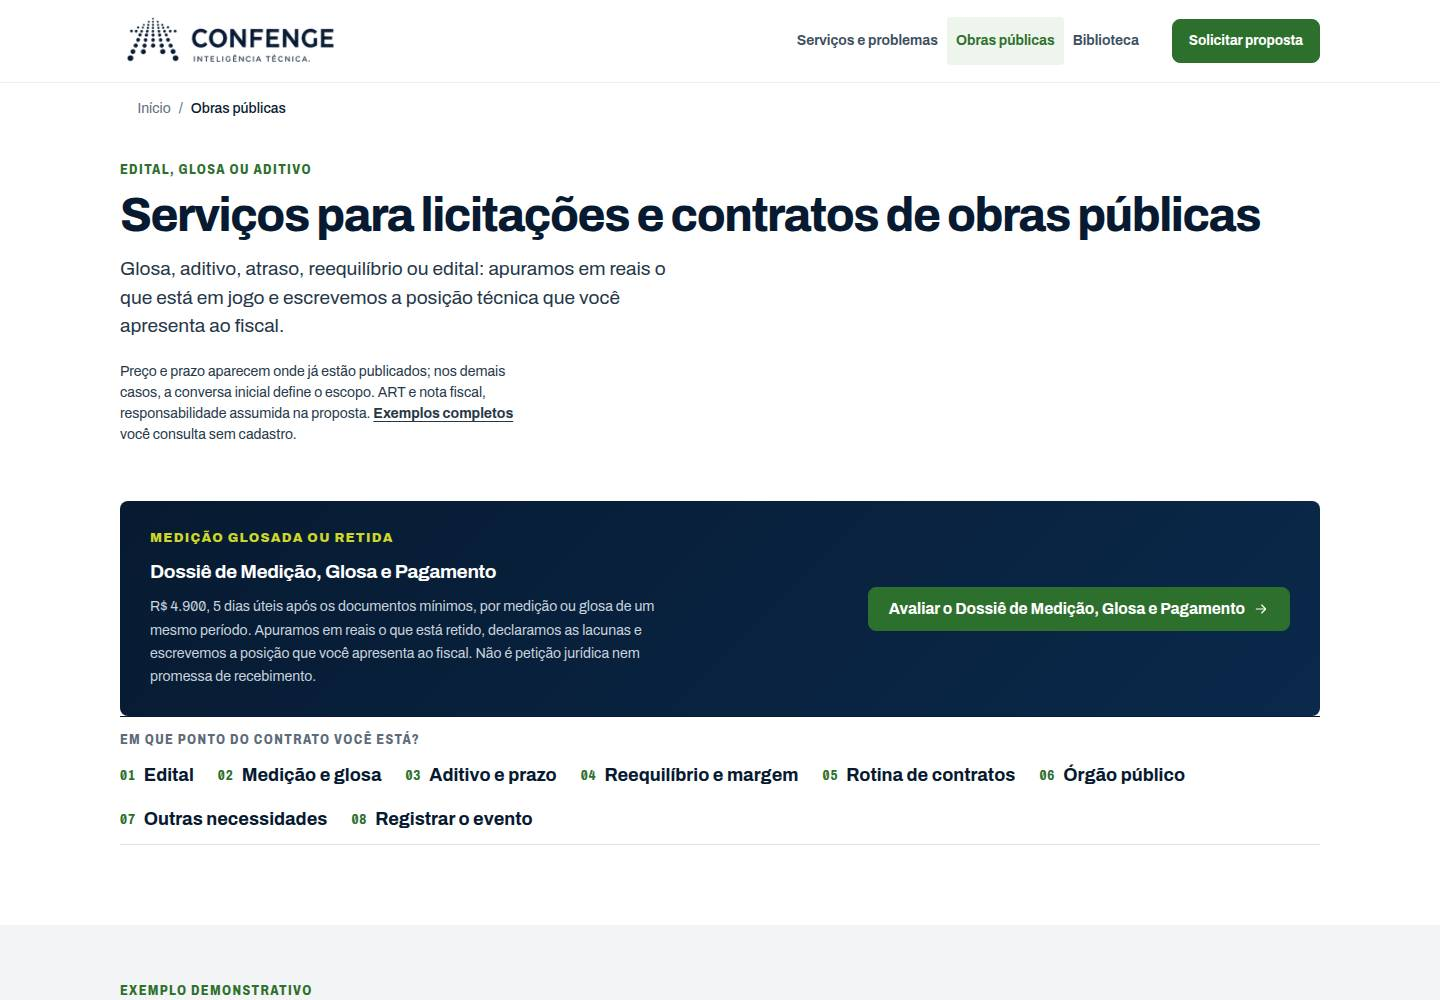
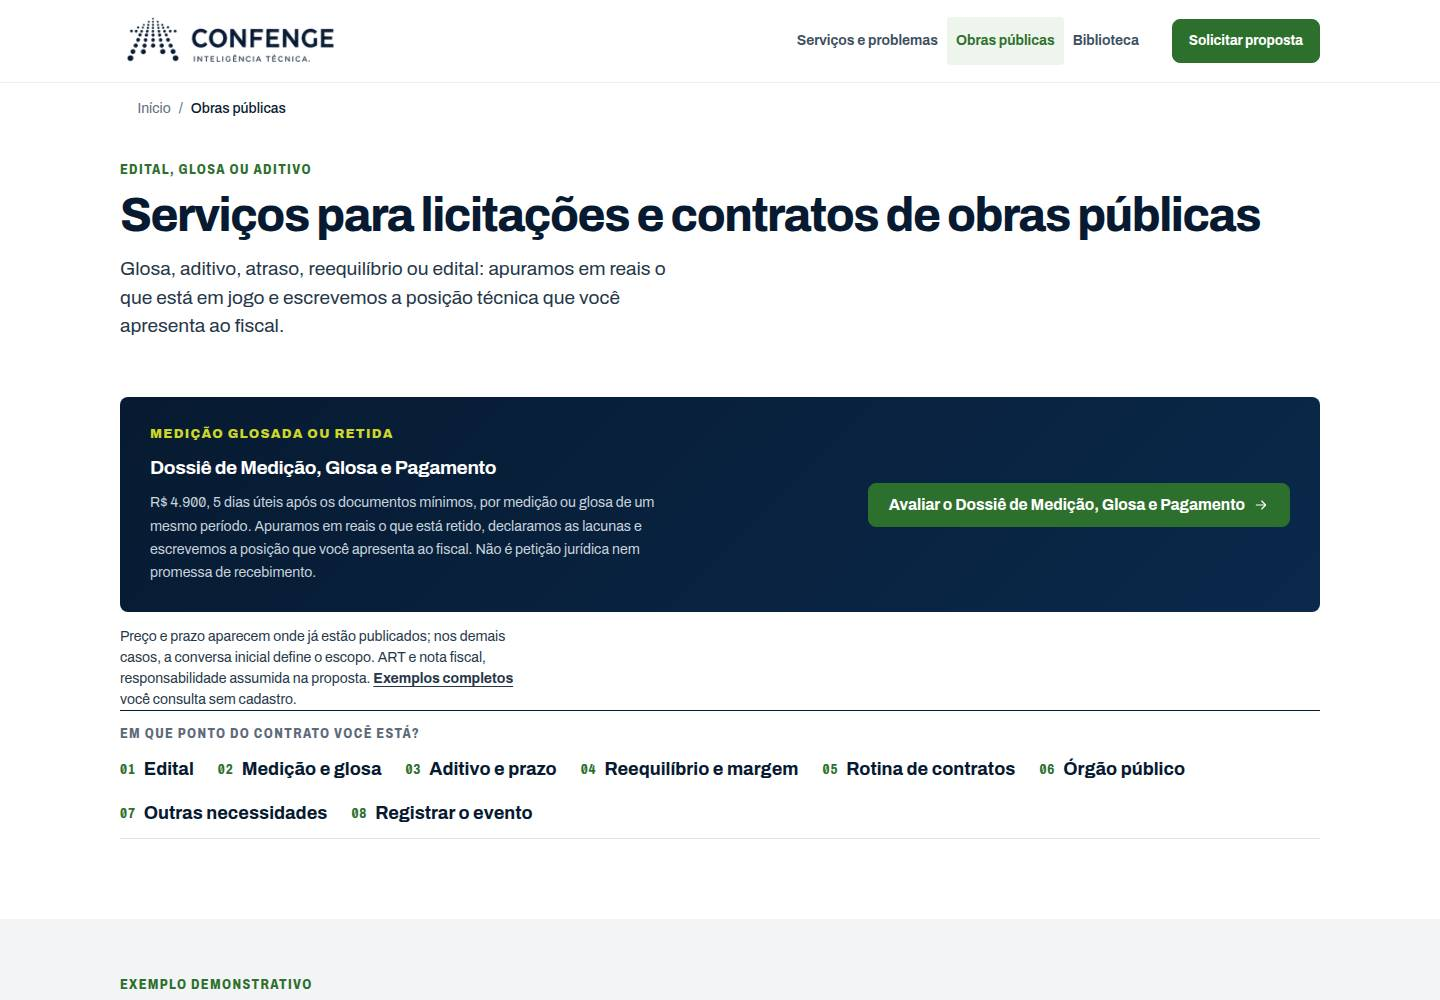
fix(design): hubs de obras publicas e de problemas com a linha de prova depois do cartao da rota dominante, para o botao caber inteiro na dobra de 390 px; evidencia recapturada e relatorio atualizado

Changed region(s): [[0.0625, 0.341, 0.9375, 0.837], [0.0625, 0.961, 0.2188, 1.0]]

diff --git a/servicos-obras-publicas/index.html b/servicos-obras-publicas/index.html
@@ -63,7 +63,6 @@
 <p class="eyebrow t-kicker">Edital, glosa ou aditivo</p>
 <h1 class="t-service" id="hub-title">Serviços para licitações e contratos de obras públicas</h1>
 <p class="section-lead svc-open__lead">Glosa, aditivo, atraso, reequilíbrio ou edital: apuramos em reais o que está em jogo e escrevemos a posição técnica que você apresenta ao fiscal.</p>
-<p class="section-proof t-caption">Preço e prazo aparecem onde já estão publicados; nos demais casos, a conversa inicial define o escopo. ART e nota fiscal, responsabilidade assumida na proposta. <a href="/casos/">Exemplos completos</a> você consulta sem cadastro.</p>
 </div>
 <section class="lead-inline" data-commercial-route="medicoes-glosas" aria-label="Rota para medição, glosa e pagamento">
 <div class="lead-inline-copy"><span>Medição glosada ou retida</span>
@@ -73,6 +72,7 @@
 <a class="button button-primary" data-asset-family="hub" data-asset-id="servicos-obras-publicas" data-cta-id="hub-servicos-medicoes-glosas" data-cta-position="hub_services" data-journey="contrato" data-route-family="medicoes-glosas" href="/medicoes-glosas-obras-publicas/">Avaliar o Dossiê de Medição, Glosa e Pagamento <svg class="icon"><use href="#i-arrow"></use></svg></a>
 </div>
 </section>
+<p class="section-proof t-caption">Preço e prazo aparecem onde já estão publicados; nos demais casos, a conversa inicial define o escopo. ART e nota fiscal, responsabilidade assumida na proposta. <a href="/casos/">Exemplos completos</a> você consulta sem cadastro.</p>
 <nav class="page-index" aria-label="Eventos desta página">
 <span class="page-index__label">Em que ponto do contrato você está?</span>
 <ol>

diff --git a/problemas-que-resolvemos/index.html b/problemas-que-resolvemos/index.html
@@ -62,7 +62,6 @@
 <p class="eyebrow t-kicker">Reconheça o seu evento</p>
 <h1 class="t-service" id="hub-title">Problemas que resolvemos em licitações e contratos de obras</h1>
 <p class="section-lead svc-open__lead">Glosa, aditivo, atraso, reequilíbrio, notificação ou edital: cada evento leva à página que diz o que assumimos, o que você recebe e para que serve.</p>
-<p class="section-proof t-caption"><a href="/ferramentas/">Quatro ferramentas públicas</a> calculam limite de aditivo, atraso, reequilíbrio e risco de margem sem cadastro.</p>
 </div>
 <section class="lead-inline" data-commercial-route="defesa-margem" aria-label="Rota para contrato em execução">
 <div class="lead-inline-copy"><span>Mais de um evento aberto</span>
@@ -72,6 +71,7 @@
 <a class="button button-primary" data-asset-family="hub" data-asset-id="problemas-que-resolvemos" data-cta-id="hub-problemas-defesa-margem" data-cta-position="hub_problems" data-journey="contrato" data-route-family="problemas-que-resolvemos" href="/defesa-margem-contratos-publicos/">Ver o Diagnóstico de Riscos à Margem <svg class="icon"><use href="#i-arrow"></use></svg></a>
 </div>
 </section>
+<p class="section-proof t-caption"><a href="/ferramentas/">Quatro ferramentas públicas</a> calculam limite de aditivo, atraso, reequilíbrio e risco de margem sem cadastro.</p>
 <nav class="page-index" aria-label="Onde você está no ciclo do contrato?">
 <span class="page-index__label">Onde você está no ciclo do contrato?</span>
 <ol>

diff --git a/scripts/site/render_nav_hubs.py b/scripts/site/render_nav_hubs.py
@@ -570,7 +570,6 @@ def _services_body(brand: dict[str, Any]) -> tuple[str, list[dict[str, str]]]:
 <p class="eyebrow t-kicker">{e(meta["eyebrow"])}</p>
 <h1 class="t-service" id="hub-title">{e(meta["h1"])}</h1>
 <p class="section-lead svc-open__lead">{e(meta["lead"])}</p>
-<p class="section-proof t-caption">{_proof_html(meta)}</p>
 </div>
 <section class="lead-inline" data-commercial-route="medicoes-glosas" aria-label="Rota para medição, glosa e pagamento">
 <div class="lead-inline-copy"><span>Medição glosada ou retida</span>
@@ -580,6 +579,7 @@ def _services_body(brand: dict[str, Any]) -> tuple[str, list[dict[str, str]]]:
 <a class="button button-primary" data-asset-family="hub" data-asset-id="servicos-obras-publicas" data-cta-id="hub-servicos-medicoes-glosas" data-cta-position="hub_services" data-journey="contrato" data-route-family="medicoes-glosas" href="/medicoes-glosas-obras-publicas/">Avaliar o Dossiê de Medição, Glosa e Pagamento <svg class="icon"><use href="#i-arrow"></use></svg></a>
 </div>
 </section>
+<p class="section-proof t-caption">{_proof_html(meta)}</p>
 <nav class="page-index" aria-label="Eventos desta página">
 <span class="page-index__label">Em que ponto do contrato você está?</span>
 <ol>
@@ -685,7 +685,6 @@ def _problems_body(brand: dict[str, Any]) -> tuple[str, list[dict[str, str]]]:
 <p class="eyebrow t-kicker">{e(meta["eyebrow"])}</p>
 <h1 class="t-service" id="hub-title">{e(meta["h1"])}</h1>
 <p class="section-lead svc-open__lead">{e(meta["lead"])}</p>
-<p class="section-proof t-caption">{_proof_html(meta)}</p>
 </div>
 <section class="lead-inline" data-commercial-route="defesa-margem" aria-label="Rota para contrato em execução">
 <div class="lead-inline-copy"><span>Mais de um evento aberto</span>
@@ -695,6 +694,7 @@ def _problems_body(brand: dict[str, Any]) -> tuple[str, list[dict[str, str]]]:
 <a class="button button-primary" data-asset-family="hub" data-asset-id="problemas-que-resolvemos" data-cta-id="hub-problemas-defesa-margem" data-cta-position="hub_problems" data-journey="contrato" data-route-family="problemas-que-resolvemos" href="/defesa-margem-contratos-publicos/">Ver o Diagnóstico de Riscos à Margem <svg class="icon"><use href="#i-arrow"></use></svg></a>
 </div>
 </section>
+<p class="section-proof t-caption">{_proof_html(meta)}</p>
 <nav class="page-index" aria-label="Onde você está no ciclo do contrato?">
 <span class="page-index__label">Onde você está no ciclo do contrato?</span>
 <ol>

diff --git a/docs/campaigns/design-institucional/expansao/relatorio-lote-b.md b/docs/campaigns/design-institucional/expansao/relatorio-lote-b.md
@@ -74,7 +74,8 @@ Os dois hubs são gerados por `scripts/site/render_nav_hubs.py` ("never hand-edi
 reprova qualquer edição manual, verificado com uma linha). A composição do piloto foi portada para
 o gerador: `svc-open` em uma coluna com a rota dominante original (`lead-inline` com o mesmo
 botão `data-cta-id="hub-servicos-medicoes-glosas"` / `hub-problemas-defesa-margem`, exigidos por
-`single-commercial-route.v1.json` e `test_inbound_gates`), `page-index`, prancha de abertura
+`single-commercial-route.v1.json` e `test_inbound_gates`; a linha de prova `section-proof` vem logo
+depois do cartão, para o botão caber na dobra de 390), `page-index`, prancha de abertura
 (P3 no hub de serviços, P5 no de problemas), `ol.list-ruled.list-ruled--areas` por evento
 contratual (grupo = situação + trabalho; linha = título/preço publicado/caminho), `ol.hub-list` para
 "Outras necessidades", `fit-economico` mantido (`data-offer-fit`), próximo passo único
@@ -194,11 +195,12 @@ o JSON-LD e o `<head>` foram conferidos byte a byte contra `47da03b64`. `test:fi
   (dois próximos passos), fora do contrato "um bloco escuro / uma ação dominante".
 - Hub de obras públicas: o aside de regras do bloco gerado `CONTRACT-DEFENSE-HUB` é um segundo
   momento escuro (pedido 3).
-- Hub de obras públicas em 390: o botão da rota dominante (`lead-inline`) entra na dobra só
-  parcialmente (topo a ~795 px de 844); a distância vem de `.lead-inline{margin-top:56px}` em
-  `styles.css` (a regra `body[data-content-cluster="servicos"] main>.section:first-of-type .lead-inline{margin-top:16px}`
-  de `css/contracts.css` deixou de casar porque a abertura é `.svc-open`). Pedido pequeno de CSS ao
-  integrador: estender o seletor a `.svc-open .lead-inline`.
+- Hubs em 390: na primeira captura o botão da rota dominante de `/servicos-obras-publicas/`
+  entrava na dobra só parcialmente (topo a ~795 px de 844). Corrigido no gerador: a linha de prova
+  (`section-proof`) passou para depois do cartão da rota dominante nos dois hubs; recapturado e
+  conferido em 390 (botão inteiro dentro da dobra em `/servicos-obras-publicas/` e em
+  `/problemas-que-resolvemos/`). O pedido 9 (seletor de `margin-top` do `lead-inline` em
+  `css/contracts.css`) deixa de ser bloqueante e fica como refinamento.
 - Estados `/diagnostico-b2g-expansao/{obrigado,expirado,cancelado}/`: páginas mínimas sem casca,
   não tratadas.
 - P4 (menu móvel com dois "fechar") e o `None` nos slots de prancha do piloto: pedidos 5 e 6.

diff --git a/docs/campaigns/design-institucional/expansao/pedidos-lote-b.md b/docs/campaigns/design-institucional/expansao/pedidos-lote-b.md
@@ -47,4 +47,4 @@ Cada pedido diz o arquivo do integrador, o motivo e a página afetada. Nada aqui
 ## 9. Margem da rota dominante no hub em 390 px
 
 - **Arquivo**: `css/contracts.css` (linha `body[data-content-cluster="servicos"] main>.section:first-of-type .lead-inline{margin-top:16px}`).
-- **Motivo**: a abertura dos hubs passou a ser `section.svc-open`, então o seletor deixou de casar e o `lead-inline` volta ao `margin-top:56px` de `styles.css`; em 390×844 o botão da rota dominante entra na dobra só parcialmente (topo a ~795 px). Estender o seletor a `.svc-open .lead-inline` (ou `main>.svc-open .lead-inline{margin-top:16px}`) fecha a dobra sem tocar no HTML.
+- **Motivo**: a abertura dos hubs passou a ser `section.svc-open`, então o seletor deixou de casar e o `lead-inline` volta ao `margin-top:56px` de `styles.css`; em 390×844 o botão da rota dominante entrava na dobra só parcialmente. O lote contornou movendo a linha de prova para depois do cartão (botão inteiro na dobra nos dois hubs, recapturado); estender o seletor a `.svc-open .lead-inline` continua desejável para recuperar os 40 px de respiro entre o lead e o cartão. Não bloqueante.
